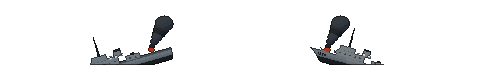
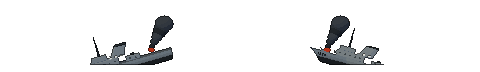
buques mas fieles: la chimenea grande del Tipo 42, la inclinada del Tipo 21 y la isla del Invincible con dos chimeneas y el 1022
Rehorneadas las tres vistas (costado, proa, hundido) y re-medido el perfil de la bomba.

Changed region(s): [[0.2188, 0.5833, 0.2812, 0.8056], [0.7188, 0.6389, 0.8125, 0.8333]]

diff --git a/src/data/blanco.js b/src/data/blanco.js
@@ -194,16 +194,17 @@ export const BL = {
 // Si se re-hornea un buque, se re-mide esto: alfa > 40 por columna, del borde de abajo al pixel
 // mas alto, en el frame 0 de la hoja.
 // RE-MEDIDO el 12/10/2026 contra las hojas de Blender (los buques se re-hornearon el 4/10 y estos
-// numeros seguian siendo los de three.js): `npx electron tools/perfil_buques.js --check`.
+// numeros seguian siendo los de three.js), y otra vez el 14/10 (las chimeneas del Tipo 42 y el Tipo 21
+// y la isla del portaaviones, mas fieles): `npx electron tools/perfil_buques.js --check`.
 export const PERFIL = {
-  t21: [0.097, 0.132, 0.111, 0.111, 0.118, 0.181, 0.243, 0.361, 0.174, 0.194, 0.194, 0.188, 0.118, 0.118, 0.097, 0.056, 0.056, 0.049, 0.049, 0.049],
-  t42: [0.095, 0.089, 0.121, 0.100, 0.079, 0.126, 0.137, 0.316, 0.316, 0.316, 0.111, 0.163, 0.158, 0.179, 0.121, 0.100, 0.095, 0.053, 0.047, 0.047],
+  t21: [0.097, 0.132, 0.111, 0.111, 0.118, 0.181, 0.243, 0.361, 0.174, 0.215, 0.236, 0.229, 0.229, 0.118, 0.097, 0.056, 0.056, 0.049, 0.049, 0.049],
+  t42: [0.095, 0.089, 0.121, 0.100, 0.079, 0.126, 0.137, 0.316, 0.316, 0.316, 0.168, 0.195, 0.189, 0.179, 0.121, 0.100, 0.095, 0.053, 0.047, 0.047],
   log: [0.132, 0.253, 0.247, 0.237, 0.221, 0.163, 0.163, 0.242, 0.232, 0.221, 0.205, 0.153, 0.153, 0.153, 0.184, 0.237, 0.300, 0.263, 0.089, 0.084],
   // PORTAAVIONES: se lee distinto a los tres de arriba y el perfil lo dice solo — una meseta
   // pareja y BAJA de punta a punta (la cubierta corrida) con UN pico tardio, que es la isla
   // corrida a popa. Los otros tienen el pico al medio o adelante. Medido con
   // `npx electron tools/perfil_buques.js`, que reproduce exacto los tres de arriba.
-  cv: [0.153, 0.147, 0.132, 0.121, 0.105, 0.100, 0.100, 0.095, 0.095, 0.137, 0.184, 0.321, 0.311, 0.189, 0.174, 0.079, 0.079, 0.079, 0.074, 0.074],
+  cv: [0.153, 0.147, 0.132, 0.121, 0.105, 0.100, 0.100, 0.095, 0.305, 0.305, 0.226, 0.337, 0.332, 0.216, 0.211, 0.132, 0.079, 0.079, 0.074, 0.074],
   // LAS ESTRUCTURAS EN TIERRA (data/estructuras.js). Las alturas son sobre el piso de la explanada, no
   // sobre el agua. La BASE COSTERA esta horneada desde el 12/10/2026 (assets/world/enemies/
   // base_costera.png) y su perfil se mide de la hoja como el de los buques (`npx electron

diff --git a/src/data/cajas.js b/src/data/cajas.js
@@ -21,7 +21,7 @@ export const CAJAS = {
   balloon: { fw: 48, fh: 48, cols: 3, rows: 1, box: { x0: 8, y0: 10, x1: 37, y1: 36 }, margen: 8 },
   base_costera: { fw: 240, fh: 72, cols: 1, rows: 1, box: { x0: 22, y0: 6, x1: 217, y1: 69 }, margen: 2 },
   bldg: { fw: 64, fh: 48, cols: 1, rows: 1, box: { x0: 16, y0: 9, x1: 49, y1: 36 }, margen: 9 },
-  buque_cv: { fw: 240, fh: 72, cols: 3, rows: 1, box: { x0: 25, y0: 8, x1: 215, y1: 69 }, margen: 2 },
+  buque_cv: { fw: 240, fh: 72, cols: 3, rows: 1, box: { x0: 25, y0: 5, x1: 215, y1: 69 }, margen: 2 },
   buque_log: { fw: 240, fh: 72, cols: 3, rows: 1, box: { x0: 25, y0: 8, x1: 215, y1: 69 }, margen: 2 },
   buque_t21: { fw: 240, fh: 72, cols: 3, rows: 1, box: { x0: 49, y0: 18, x1: 192, y1: 69 }, margen: 2 },
   buque_t42: { fw: 240, fh: 72, cols: 3, rows: 1, box: { x0: 25, y0: 10, x1: 215, y1: 69 }, margen: 2 },
@@ -48,7 +48,7 @@ export const CAJAS = {
   lcu: { fw: 72, fh: 48, cols: 3, rows: 1, box: { x0: 9, y0: 13, x1: 52, y1: 33 }, margen: 9 },
   manpad: { fw: 48, fh: 48, cols: 2, rows: 1, box: { x0: 6, y0: 13, x1: 41, y1: 37 }, margen: 6 },
   pesquero: { fw: 64, fh: 48, cols: 1, rows: 1, box: { x0: 10, y0: 17, x1: 52, y1: 33 }, margen: 10 },
-  proa_cv: { fw: 56, fh: 72, cols: 3, rows: 1, box: { x0: 4, y0: 5, x1: 51, y1: 68 }, margen: 3 },
+  proa_cv: { fw: 56, fh: 72, cols: 3, rows: 1, box: { x0: 4, y0: 2, x1: 52, y1: 68 }, margen: 2 },
   proa_log: { fw: 56, fh: 72, cols: 3, rows: 1, box: { x0: 14, y0: 7, x1: 41, y1: 68 }, margen: 3 },
   proa_t21: { fw: 56, fh: 72, cols: 3, rows: 1, box: { x0: 19, y0: 17, x1: 36, y1: 68 }, margen: 3 },
   proa_t42: { fw: 56, fh: 72, cols: 3, rows: 1, box: { x0: 16, y0: 9, x1: 39, y1: 68 }, margen: 3 },

diff --git a/tools/blender/modelos_buques.py b/tools/blender/modelos_buques.py
@@ -176,12 +176,12 @@ def columna(nombre, raiz, mat, x, z, est, expo=3.0, inclina=0.0):
     me.shade_smooth(); me.set_sharp_from_angle(angle=math.radians(40))
     return _obj(nombre, me, raiz, mat)
 
-def chimenea(raiz, K, x, y, z, w, d, alto, sombrero=True):
+def chimenea(raiz, K, x, y, z, w, d, alto, sombrero=True, inclina=0.12):
     sup = K['mat_cel']('chimenea', GRIS_SUP)
-    columna('chimenea', raiz, sup, x, z, [(y, w, d), (y + alto * 0.7, w * 0.96, d * 0.92), (y + alto, w * 0.9, d * 0.85)], inclina=0.12)
+    columna('chimenea', raiz, sup, x, z, [(y, w, d), (y + alto * 0.7, w * 0.96, d * 0.92), (y + alto, w * 0.9, d * 0.85)], inclina=inclina)
     if sombrero:
-        columna('sombrerete', raiz, K['mat_cel']('negro', METAL), x, z + alto * 0.12,
-                [(y + alto - 0.02, w * 0.93, d * 0.88), (y + alto + 0.10, w * 0.9, d * 0.84)], inclina=0.12)
+        columna('sombrerete', raiz, K['mat_cel']('negro', METAL), x, z + alto * inclina,
+                [(y + alto - 0.02, w * 0.93, d * 0.88), (y + alto + 0.10, w * 0.9, d * 0.84)], inclina=inclina)
 
 def ventanal(raiz, K, x, y, z, ancho, alto=0.07):
     """Los ventanales del puente, ENCENDIDOS: la luz calida del atardecer adentro."""
@@ -240,7 +240,8 @@ def t42(T, K, padre=None):
     balsas(raiz, K, manga * 0.40, franco + 0.40, L * 0.02, L * 0.12, 4)
     elipsoide('radomo909', (0, franco + 1.05, -L * 0.135), (0.17, 0.15, 0.17), raiz, K['mat_cel']('radomo', RADOMO), seg=16, anillos=10)
     mastil(raiz, K, 0, franco + 0.94, -L * 0.075, 1.25, 'somier')
-    chimenea(raiz, K, 0, franco + 0.34, L * 0.09, manga * 0.20, 0.42, 0.55)
+    # LA CHIMENEA GRANDE de los Sheffield (14/10, "mas fieles"): ancha, alta, con el sombrerete negro
+    chimenea(raiz, K, 0, franco + 0.34, L * 0.09, manga * 0.24, 0.58, 0.86, inclina=0.08)
     mastil(raiz, K, 0, franco + 0.34, L * 0.17, 0.85, 'barra')
     # EL HANGAR y la CUBIERTA DE VUELO (la pinta el casco: es lo que mira para arriba)
     bloque('hangar', raiz, sup, (0, franco + 0.21, L * 0.26), (manga * 0.66, 0.42, L * 0.16))
@@ -269,7 +270,8 @@ def t21(T, K, padre=None):
     balsas(raiz, K, manga * 0.40, franco + 0.52, -L * 0.04, L * 0.04, 3)
     mastil(raiz, K, 0, franco + 0.80, -L * 0.115, 1.25, 'barra')
     pieza('radar992', raiz, K['mat_cel']('metal', METAL), (0.38, 0.12, 0.06), (0, franco + 2.12, -L * 0.115))
-    chimenea(raiz, K, 0, franco + 0.46, L * 0.01, manga * 0.17, 0.30, 0.40)
+    # LA CHIMENEA de los Amazon (14/10): larga, alta e INCLINADA hacia popa — la firma del Tipo 21
+    chimenea(raiz, K, 0, franco + 0.46, L * 0.01, manga * 0.22, 0.52, 0.72, inclina=0.45)
     bloque('hangar', raiz, sup, (0, franco + 0.15, L * 0.11), (manga * 0.56, 0.30, L * 0.10))
     costado(raiz, K, manga * 0.28 + 0.006, franco + 0.14, L * 0.07, L * 0.15, 2, alto=0.16)
     bloque('seacat', raiz, K['mat_cel']('metal', METAL), (0, franco + 0.37, L * 0.11), (manga * 0.24, 0.14, 0.26), bisel=0.02)
@@ -317,14 +319,18 @@ def cv(T, K, padre=None):
     cuna('rampa', raiz, cub, -manga * 0.50, manga * 0.50, -L * 0.29, -L * 0.475, franco + 0.09, 0.42)
     sup = K['mat_cel']('sup', GRIS_SUP)
     ix, iy = manga * 0.42, franco + 0.10
-    for w, h, lg, dy in ((0.40, 0.44, L * 0.24, 0), (0.32, 0.34, L * 0.17, 0.44), (0.24, 0.24, L * 0.11, 0.78)):
+    # LA ISLA del Invincible (14/10, "mas fieles"): LARGA y ALTA sobre la banda de estribor, con DOS
+    # chimeneas grandes y el radar 1022 en el palo de proa
+    for w, h, lg, dy in ((0.42, 0.50, L * 0.32, 0), (0.34, 0.40, L * 0.24, 0.50), (0.26, 0.30, L * 0.13, 0.90)):
         bloque('isla', raiz, sup, (ix, iy + dy + h / 2, L * 0.10), (manga * w, h, lg))
     ventanal(raiz, K, ix, iy + 0.62, L * 0.10 - L * 0.085 - 0.01, manga * 0.24)
     costado(raiz, K, ix + manga * 0.20 + 0.006, iy + 0.22, L * 0.0, L * 0.21, 5)
     costado(raiz, K, ix - manga * 0.20 - 0.006, iy + 0.22, L * 0.0, L * 0.21, 0)
-    chimenea(raiz, K, ix, iy + 0.44, L * 0.02, manga * 0.09, 0.22, 0.42)
-    chimenea(raiz, K, ix, iy + 0.44, L * 0.18, manga * 0.09, 0.22, 0.38)
-    mastil(raiz, K, ix, iy + 1.02, L * 0.10, 1.25, 'radomos')
+    chimenea(raiz, K, ix, iy + 0.50, L * 0.00, manga * 0.12, 0.40, 0.78, inclina=0.05)
+    chimenea(raiz, K, ix, iy + 0.50, L * 0.21, manga * 0.12, 0.38, 0.70, inclina=0.05)
+    mastil(raiz, K, ix, iy + 1.20, L * 0.10, 1.25, 'radomos')
+    poste('palo_proa', raiz, K['mat_cel']('metal', METAL), ix, iy + 0.90, iy + 1.95, -L * 0.04, 0.035, 0.025, seg=6)
+    pieza('radar1022', raiz, K['mat_cel']('metal', METAL), (0.10, 0.32, 0.70), (ix, iy + 1.95, -L * 0.04))
     bloque('seadart', raiz, sup, (0, franco - 0.08, -L * 0.43), (manga * 0.26, 0.16, 0.36), bisel=0.02)
     return raiz
 
